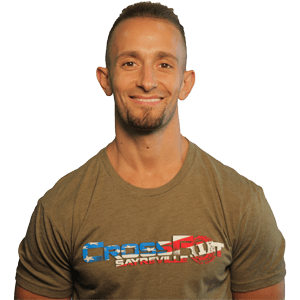
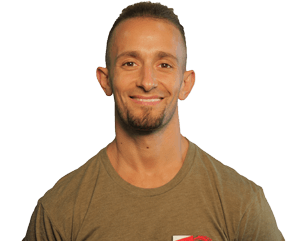
new coaches and new coach photos

diff --git a/src/components/bio.js b/src/components/bio.js
@@ -2,21 +2,27 @@ import React, { Component } from 'react';
 import Frame from "../components/bioFrame"
 import '../styles/bio.css'
 
-import ben2 from '../images/ben2.png'
-import alex from '../images/alex.png'
-import amanda from '../images/amanda.png'
-import kelsey from '../images/kelsey.png'
-import kevin from '../images/kevin.png'
-import jaime from '../images/jaime.png'
-import allyssa from '../images/allyssa.jpg'
+import ben2 from '../images/Ben.jpg'
+import alex from '../images/Alex.jpg'
+import amanda from '../images/Amanda.jpg'
+import kelsey from '../images/Kelsey.jpg'
+import kevin from '../images/Kevin.jpg'
+import jaime from '../images/Jamie.jpg'
+import allyssa from '../images/Allyssa.jpg'
 // import allie2 from '../images/allie.jpg'
-import allie from '../images/Allie.png'
+import allie from '../images/Allie.jpg'
+import jake from '../images/Jake.jpg'
+import kate from '../images/Kate.jpg'
+
 
 class Bio extends Component {
 
   state = {
-    // IF YOU NEED TO ADD ANOTHER COACH, DONT FORGET TO PUT NAME HERE FOR CAROUSEL
-    bios: ['Ben', 'Alex', 'Amanda', 'Kelsey', 'Kevin', 'Jaime', 'Allyssa', 'Allie'],
+    // WHEN YOU ARE READY TO ADD JAKE AND KATE, PLEASE SEE COMMENTS ON LINES 23, 25, 240 & 268
+    
+    bios: ['Ben', 'Alex', 'Amanda', 'Kelsey', 'Kevin', 'Jaime', 'Allyssa', 'Allie'], // ERASE THIS ENTIRE LINE WHEN YOU ARE READY TO ADD JAKE AND KATE
+
+    // bios: ['Ben', 'Alex', 'Amanda', 'Kelsey', 'Kevin', 'Jaime', 'Allyssa', 'Allie', 'Jake', 'Kate'], // ONLY DELETE THE TWO "//" FROM THE BEGINNING OF THIS LINE WHEN YOU ARE READY TO ADD JAKE AND KATE
     displayBioIndex: 0,
   }
 
@@ -231,7 +237,35 @@ class Bio extends Component {
                 />
             </div> 
 
+ {/* ERASE THIS ENTIRE LINE WHEN YOU ARE READY TO ADD JAKE AND KATE
 
+            <div className="display-bio" id="bio8">
+              <Frame 
+                img={jake} 
+                name='Jake Campbell'
+                title='Level 1 Trainer'
+                innerText='Cursus consectetur sem iaculis sodales interdum aliquet etiam laoreet lacus natoque integer massa justo luctus elit tortor sociosqu ipsum lectus'
+                // cert1='CrossFit Level 1 Trainer' 
+                // cert2='Foundations Coach' 
+                // cert3='Personal Trainer'  
+                />
+            </div> 
+
+            <div className="display-bio" id="bio9">
+              <Frame 
+                img={kate} 
+                name='Kate lastName'
+                title='Level 1 Trainer'
+                innerText='Himenaeos diam neque imperdiet nullam turpis litora dictum sed sem cursus eleifend semper morbi curabitur maecenas sodales aliquet risus class egestas natoque aenean leo nisl potenti cum varius non pulvinar ut habitasse dolor metus iaculis quis at vehicula lorem montes mus tortor erat rhoncus blandit fames consectetur condimentum platea dapibus'
+                // cert1='CrossFit Level 1 Trainer' 
+                // cert2='Foundations Coach' 
+                // cert3='Personal Trainer'  
+                />
+            </div> 
+
+
+            
+ ERASE THIS ENTIRE LINE WHEN YOU ARE READY TO ADD JAKE AND KATE */}
 
           </div>
           

diff --git a/src/styles/bio.css b/src/styles/bio.css
@@ -89,10 +89,10 @@
 .bio-img {
   width: 250px;
   height: 250px;
-  background: var(--white);
+  background: #FFFFFF;
   box-shadow: 0 0 50px var(--grey);
   border-radius: 50%;
-  object-fit: cover;
+  object-fit: contain;
 }
 
 .bio-text {
